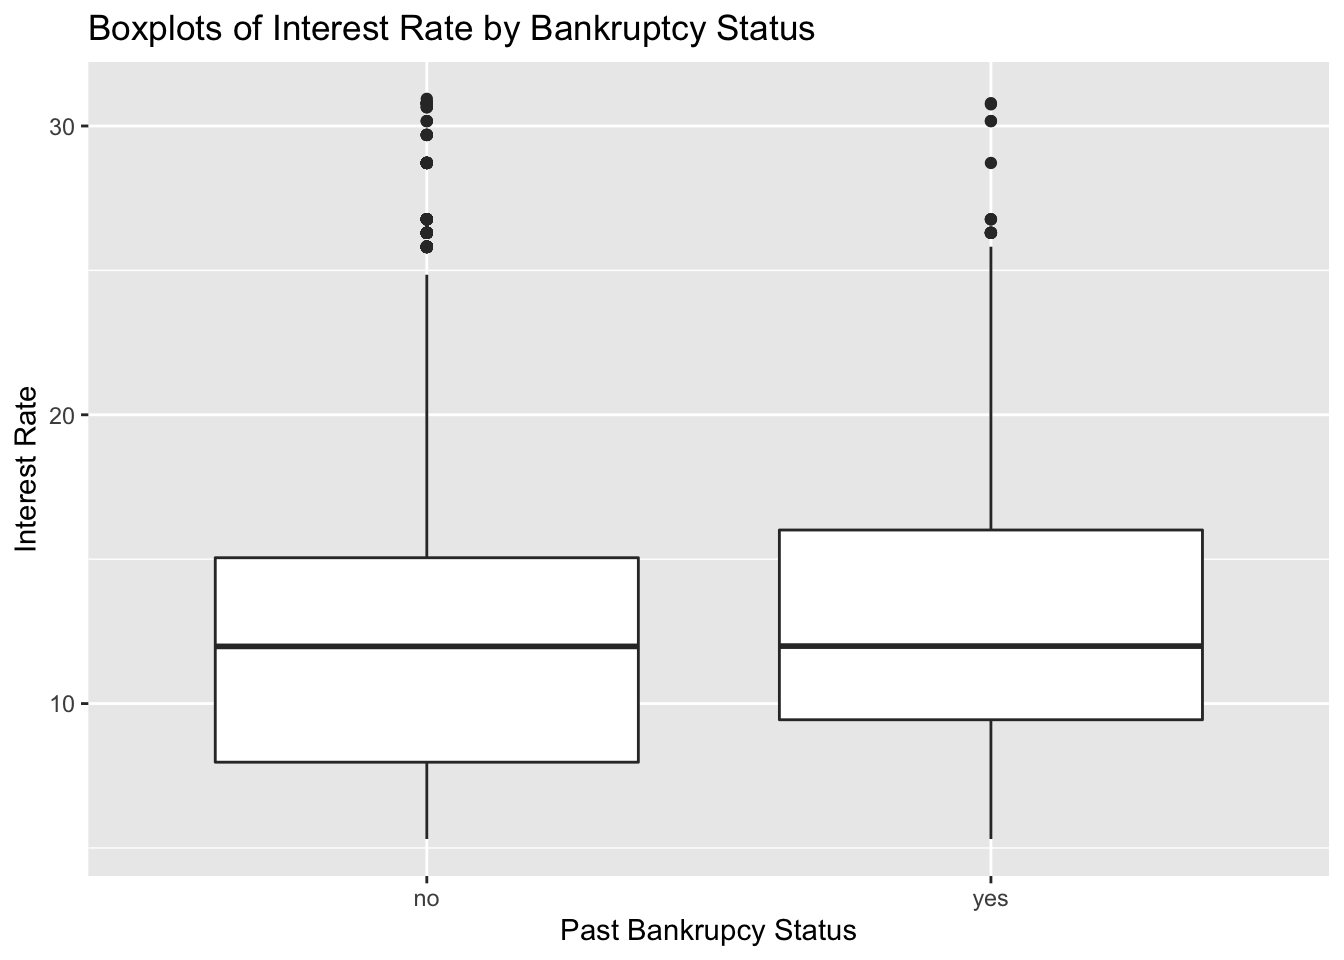
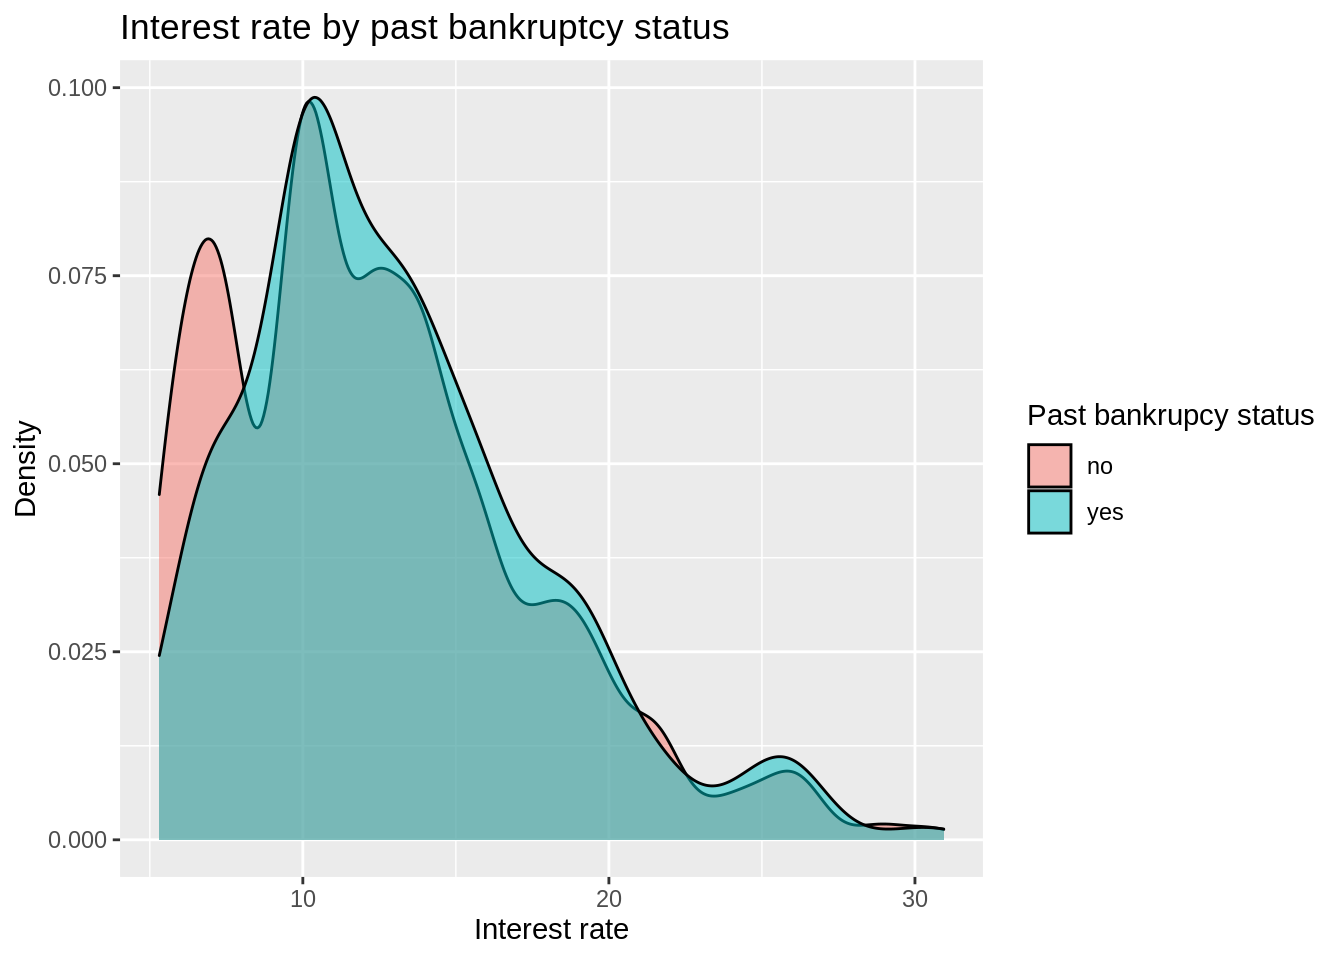
Deploying to gh-pages from @ matackett/ecots2022-modern-regression@168cf48eca15deebafa690d6098a0e5e0413bfe8 🚀

diff --git a/activity/modeling-loans-solutions.html b/activity/modeling-loans-solutions.html
@@ -187,8 +187,8 @@ code span.wa { color: #60a0b0; font-weight: bold; font-style: italic; } /* Warni
   <li><a href="#introduction" id="toc-introduction" class="nav-link active" data-scroll-target="#introduction">Introduction</a></li>
   <li><a href="#exercises" id="toc-exercises" class="nav-link" data-scroll-target="#exercises">Exercises</a>
   <ul class="collapse">
-  <li><a href="#exercise-0-data-cleanup" id="toc-exercise-0-data-cleanup" class="nav-link" data-scroll-target="#exercise-0-data-cleanup">Exercise 0: Data Cleanup</a></li>
-  <li><a href="#exercise-1-train-test-data-split" id="toc-exercise-1-train-test-data-split" class="nav-link" data-scroll-target="#exercise-1-train-test-data-split">Exercise 1: Train-Test Data Split</a></li>
+  <li><a href="#exercise-0-data-cleanup" id="toc-exercise-0-data-cleanup" class="nav-link" data-scroll-target="#exercise-0-data-cleanup">Exercise 0: Data cleanup</a></li>
+  <li><a href="#exercise-1-train-test-data-split" id="toc-exercise-1-train-test-data-split" class="nav-link" data-scroll-target="#exercise-1-train-test-data-split">Exercise 1: Train-test data split</a></li>
   <li><a href="#exercise-2-the-model" id="toc-exercise-2-the-model" class="nav-link" data-scroll-target="#exercise-2-the-model">Exercise 2: The Model</a></li>
   <li><a href="#exercise-3-eda" id="toc-exercise-3-eda" class="nav-link" data-scroll-target="#exercise-3-eda">Exercise 3: EDA</a></li>
   <li><a href="#exercise-4-model-specification" id="toc-exercise-4-model-specification" class="nav-link" data-scroll-target="#exercise-4-model-specification">Exercise 4: Model specification</a></li>
@@ -240,14 +240,14 @@ code span.wa { color: #60a0b0; font-weight: bold; font-style: italic; } /* Warni
 <section id="exercises" class="level1">
 <h1>Exercises</h1>
 <section id="exercise-0-data-cleanup" class="level2">
-<h2 class="anchored" data-anchor-id="exercise-0-data-cleanup">Exercise 0: Data Cleanup</h2>
+<h2 class="anchored" data-anchor-id="exercise-0-data-cleanup">Exercise 0: Data cleanup</h2>
 <p>We are going to do a preliminary cleaning step. Let’s drop any unused levels.</p>
 <div class="cell">
 <div class="sourceCode cell-code" id="cb2"><pre class="sourceCode r code-with-copy"><code class="sourceCode r"><span id="cb2-1"><a href="#cb2-1" aria-hidden="true" tabindex="-1"></a>loans_full_schema <span class="ot">&lt;-</span> <span class="fu">droplevels</span>(loans_full_schema)</span></code><button title="Copy to Clipboard" class="code-copy-button"><i class="bi"></i></button></pre></div>
 </div>
 </section>
 <section id="exercise-1-train-test-data-split" class="level2">
-<h2 class="anchored" data-anchor-id="exercise-1-train-test-data-split">Exercise 1: Train-Test Data Split</h2>
+<h2 class="anchored" data-anchor-id="exercise-1-train-test-data-split">Exercise 1: Train-test data split</h2>
 <p>Split the data into a training and test set with a 75%-25% split. Don’t forget to set a seed!</p>
 <div class="cell">
 <div class="sourceCode cell-code" id="cb3"><pre class="sourceCode r code-with-copy"><code class="sourceCode r"><span id="cb3-1"><a href="#cb3-1" aria-hidden="true" tabindex="-1"></a><span class="fu">set.seed</span>(<span class="dv">210</span>)</span>
@@ -272,41 +272,40 @@ code span.wa { color: #60a0b0; font-weight: bold; font-style: italic; } /* Warni
 </section>
 <section id="exercise-3-eda" class="level2">
 <h2 class="anchored" data-anchor-id="exercise-3-eda">Exercise 3: EDA</h2>
-<p>Explore characteristics of the variables you’ll use for the model using the training data only. Create both univariate and bivariate plots, and make sure to think about which plots are the most appropriate and effective given the data types.</p>
-<p>Explore characteristics of the variables you’ll use for the model using the training data only. Create both univariate and bivariate plots, and make sure to think about which plots are the most appropriate and effective given the data types.</p>
+<p>Explore characteristics of the variables you’ll use for the model using the training data only. Create univariate, bivariate, and multivariate plots, and make sure to think about which plots are the most appropriate and effective given the data types.</p>
 <div class="cell">
 <div class="sourceCode cell-code" id="cb4"><pre class="sourceCode r code-with-copy"><code class="sourceCode r"><span id="cb4-1"><a href="#cb4-1" aria-hidden="true" tabindex="-1"></a><span class="fu">ggplot</span>(loans_train, <span class="fu">aes</span>(<span class="at">x =</span> interest_rate)) <span class="sc">+</span></span>
-<span id="cb4-2"><a href="#cb4-2" aria-hidden="true" tabindex="-1"></a>  <span class="fu">geom_histogram</span>(<span class="at">bins =</span> <span class="dv">20</span>) <span class="sc">+</span></span>
+<span id="cb4-2"><a href="#cb4-2" aria-hidden="true" tabindex="-1"></a>  <span class="fu">geom_histogram</span>(<span class="at">binwidth =</span> <span class="dv">1</span>) <span class="sc">+</span></span>
 <span id="cb4-3"><a href="#cb4-3" aria-hidden="true" tabindex="-1"></a>  <span class="fu">labs</span>(</span>
-<span id="cb4-4"><a href="#cb4-4" aria-hidden="true" tabindex="-1"></a>    <span class="at">x =</span> <span class="st">"Interest Rate"</span>, <span class="at">y =</span> <span class="st">"Count"</span>,</span>
-<span id="cb4-5"><a href="#cb4-5" aria-hidden="true" tabindex="-1"></a>    <span class="at">title =</span> <span class="st">"Distribution of Loan Interest Rates"</span></span>
+<span id="cb4-4"><a href="#cb4-4" aria-hidden="true" tabindex="-1"></a>    <span class="at">x =</span> <span class="st">"Interest rate"</span>, <span class="at">y =</span> <span class="st">"Count"</span>,</span>
+<span id="cb4-5"><a href="#cb4-5" aria-hidden="true" tabindex="-1"></a>    <span class="at">title =</span> <span class="st">"Distribution of loan interest rates"</span></span>
 <span id="cb4-6"><a href="#cb4-6" aria-hidden="true" tabindex="-1"></a>  )</span></code><button title="Copy to Clipboard" class="code-copy-button"><i class="bi"></i></button></pre></div>
 <div class="cell-output-display">
 <p><img src="modeling-loans-solutions_files/figure-html/explore-1.png" class="img-fluid" width="672"></p>
 </div>
 <div class="sourceCode cell-code" id="cb5"><pre class="sourceCode r code-with-copy"><code class="sourceCode r"><span id="cb5-1"><a href="#cb5-1" aria-hidden="true" tabindex="-1"></a><span class="fu">ggplot</span>(loans_train, <span class="fu">aes</span>(</span>
 <span id="cb5-2"><a href="#cb5-2" aria-hidden="true" tabindex="-1"></a>  <span class="at">x =</span> debt_to_income, <span class="at">y =</span> interest_rate,</span>
-<span id="cb5-3"><a href="#cb5-3" aria-hidden="true" tabindex="-1"></a>  <span class="at">color =</span> application_type</span>
+<span id="cb5-3"><a href="#cb5-3" aria-hidden="true" tabindex="-1"></a>  <span class="at">color =</span> application_type, <span class="at">shape =</span> application_type</span>
 <span id="cb5-4"><a href="#cb5-4" aria-hidden="true" tabindex="-1"></a>)) <span class="sc">+</span></span>
 <span id="cb5-5"><a href="#cb5-5" aria-hidden="true" tabindex="-1"></a>  <span class="fu">geom_point</span>() <span class="sc">+</span></span>
 <span id="cb5-6"><a href="#cb5-6" aria-hidden="true" tabindex="-1"></a>  <span class="fu">labs</span>(</span>
-<span id="cb5-7"><a href="#cb5-7" aria-hidden="true" tabindex="-1"></a>    <span class="at">x =</span> <span class="st">"Debt-to-Income Ratio"</span>, <span class="at">y =</span> <span class="st">"Interest Rate"</span>,</span>
-<span id="cb5-8"><a href="#cb5-8" aria-hidden="true" tabindex="-1"></a>    <span class="at">title =</span> <span class="st">"Interest Rate vs. Debt-to-Income, by App. Type"</span></span>
-<span id="cb5-9"><a href="#cb5-9" aria-hidden="true" tabindex="-1"></a>  )</span></code><button title="Copy to Clipboard" class="code-copy-button"><i class="bi"></i></button></pre></div>
+<span id="cb5-7"><a href="#cb5-7" aria-hidden="true" tabindex="-1"></a>    <span class="at">x =</span> <span class="st">"Debt-to-income ratio"</span>, <span class="at">y =</span> <span class="st">"Interest rate"</span>,</span>
+<span id="cb5-8"><a href="#cb5-8" aria-hidden="true" tabindex="-1"></a>    <span class="at">color =</span> <span class="st">"Application type"</span>, <span class="at">shape =</span> <span class="st">"Application type"</span>,</span>
+<span id="cb5-9"><a href="#cb5-9" aria-hidden="true" tabindex="-1"></a>    <span class="at">title =</span> <span class="st">"Interest rate vs. Debt-to-income by application type"</span></span>
+<span id="cb5-10"><a href="#cb5-10" aria-hidden="true" tabindex="-1"></a>  )</span></code><button title="Copy to Clipboard" class="code-copy-button"><i class="bi"></i></button></pre></div>
 <div class="cell-output-display">
 <p><img src="modeling-loans-solutions_files/figure-html/explore-2.png" class="img-fluid" width="672"></p>
 </div>
-<div class="sourceCode cell-code" id="cb6"><pre class="sourceCode r code-with-copy"><code class="sourceCode r"><span id="cb6-1"><a href="#cb6-1" aria-hidden="true" tabindex="-1"></a><span class="fu">ggplot</span>(loans_train, <span class="fu">aes</span>(</span>
-<span id="cb6-2"><a href="#cb6-2" aria-hidden="true" tabindex="-1"></a>  <span class="at">x =</span> <span class="fu">as_factor</span>(<span class="fu">if_else</span>(public_record_bankrupt <span class="sc">==</span> <span class="dv">0</span>,</span>
-<span id="cb6-3"><a href="#cb6-3" aria-hidden="true" tabindex="-1"></a>    <span class="st">"no"</span>, <span class="st">"yes"</span></span>
-<span id="cb6-4"><a href="#cb6-4" aria-hidden="true" tabindex="-1"></a>  )),</span>
-<span id="cb6-5"><a href="#cb6-5" aria-hidden="true" tabindex="-1"></a>  <span class="at">y =</span> interest_rate</span>
-<span id="cb6-6"><a href="#cb6-6" aria-hidden="true" tabindex="-1"></a>)) <span class="sc">+</span></span>
-<span id="cb6-7"><a href="#cb6-7" aria-hidden="true" tabindex="-1"></a>  <span class="fu">geom_boxplot</span>() <span class="sc">+</span></span>
-<span id="cb6-8"><a href="#cb6-8" aria-hidden="true" tabindex="-1"></a>  <span class="fu">labs</span>(</span>
-<span id="cb6-9"><a href="#cb6-9" aria-hidden="true" tabindex="-1"></a>    <span class="at">x =</span> <span class="st">"Past Bankrupcy Status"</span>, <span class="at">y =</span> <span class="st">"Interest Rate"</span>,</span>
-<span id="cb6-10"><a href="#cb6-10" aria-hidden="true" tabindex="-1"></a>    <span class="at">title =</span> <span class="st">"Boxplots of Interest Rate by Bankruptcy Status"</span></span>
-<span id="cb6-11"><a href="#cb6-11" aria-hidden="true" tabindex="-1"></a>  )</span></code><button title="Copy to Clipboard" class="code-copy-button"><i class="bi"></i></button></pre></div>
+<div class="sourceCode cell-code" id="cb6"><pre class="sourceCode r code-with-copy"><code class="sourceCode r"><span id="cb6-1"><a href="#cb6-1" aria-hidden="true" tabindex="-1"></a>loans_train <span class="sc">%&gt;%</span></span>
+<span id="cb6-2"><a href="#cb6-2" aria-hidden="true" tabindex="-1"></a>  <span class="fu">mutate</span>(<span class="at">public_record_bankrupt =</span> <span class="fu">if_else</span>(public_record_bankrupt <span class="sc">==</span> <span class="dv">0</span>, <span class="st">"no"</span>, <span class="st">"yes"</span></span>
+<span id="cb6-3"><a href="#cb6-3" aria-hidden="true" tabindex="-1"></a>  )) <span class="sc">%&gt;%</span></span>
+<span id="cb6-4"><a href="#cb6-4" aria-hidden="true" tabindex="-1"></a><span class="fu">ggplot</span>(<span class="fu">aes</span>(<span class="at">x =</span> interest_rate, <span class="at">fill =</span> public_record_bankrupt)) <span class="sc">+</span></span>
+<span id="cb6-5"><a href="#cb6-5" aria-hidden="true" tabindex="-1"></a>  <span class="fu">geom_density</span>(<span class="at">alpha =</span> <span class="fl">0.5</span>) <span class="sc">+</span></span>
+<span id="cb6-6"><a href="#cb6-6" aria-hidden="true" tabindex="-1"></a>  <span class="fu">labs</span>(</span>
+<span id="cb6-7"><a href="#cb6-7" aria-hidden="true" tabindex="-1"></a>    <span class="at">x =</span> <span class="st">"Interest rate"</span>, <span class="at">y =</span> <span class="st">"Density"</span>,</span>
+<span id="cb6-8"><a href="#cb6-8" aria-hidden="true" tabindex="-1"></a>    <span class="at">fill =</span> <span class="st">"Past bankrupcy status"</span>, </span>
+<span id="cb6-9"><a href="#cb6-9" aria-hidden="true" tabindex="-1"></a>    <span class="at">title =</span> <span class="st">"Interest rate by past bankruptcy status"</span></span>
+<span id="cb6-10"><a href="#cb6-10" aria-hidden="true" tabindex="-1"></a>  )</span></code><button title="Copy to Clipboard" class="code-copy-button"><i class="bi"></i></button></pre></div>
 <div class="cell-output-display">
 <p><img src="modeling-loans-solutions_files/figure-html/explore-3.png" class="img-fluid" width="672"></p>
 </div>

diff --git a/activity/modeling-loans.html b/activity/modeling-loans.html
@@ -276,7 +276,7 @@ code span.wa { color: #60a0b0; font-weight: bold; font-style: italic; } /* Warni
 </section>
 <section id="exercise-3-exploratory-data-analysis" class="level2">
 <h2 class="anchored" data-anchor-id="exercise-3-exploratory-data-analysis">Exercise 3: Exploratory data analysis</h2>
-<p>Explore characteristics of the variables you’ll use for the model using the training data only. Create both univariate and bivariate plots, and make sure to think about which plots are the most appropriate and effective given the data types.</p>
+<p>Explore characteristics of the variables you’ll use for the model using the training data only. Create univariate, bivariate, and multivariate plots, and make sure to think about which plots are the most appropriate and effective given the data types.</p>
 <div class="cell">
 <div class="sourceCode cell-code" id="cb4"><pre class="sourceCode r code-with-copy"><code class="sourceCode r"><span id="cb4-1"><a href="#cb4-1" aria-hidden="true" tabindex="-1"></a><span class="fu">ggplot</span>(loans_train, <span class="fu">aes</span>(<span class="at">x =</span> interest_rate)) <span class="sc">+</span></span>
 <span id="cb4-2"><a href="#cb4-2" aria-hidden="true" tabindex="-1"></a>  <span class="fu">geom_histogram</span>(<span class="at">bins =</span> <span class="dv">20</span>) <span class="sc">+</span></span>

diff --git a/slides/index.html b/slides/index.html
@@ -589,7 +589,7 @@
 ✖ dplyr::filter()  masks stats::filter()
 ✖ dplyr::lag()     masks stats::lag()
 ✖ recipes::step()  masks stats::step()
-• Search for functions across packages at https://www.tidymodels.org/find/</code></pre>
+• Learn how to get started at https://www.tidymodels.org/start/</code></pre>
 </div>
 </div>
 </section>
